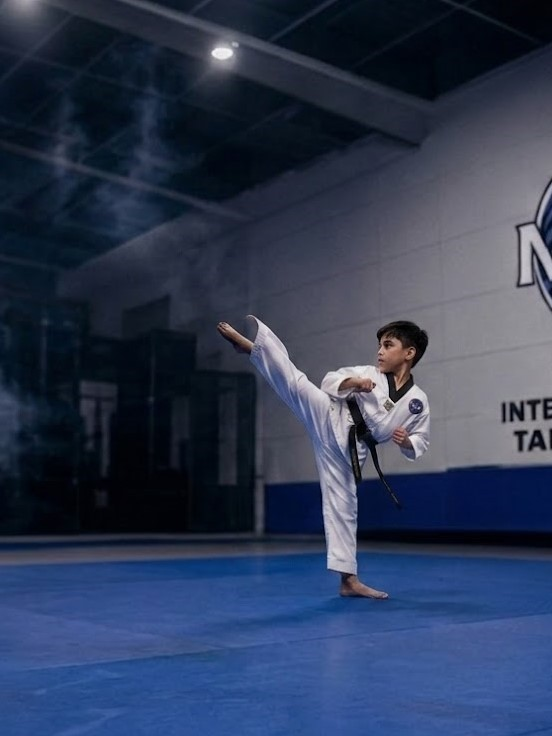
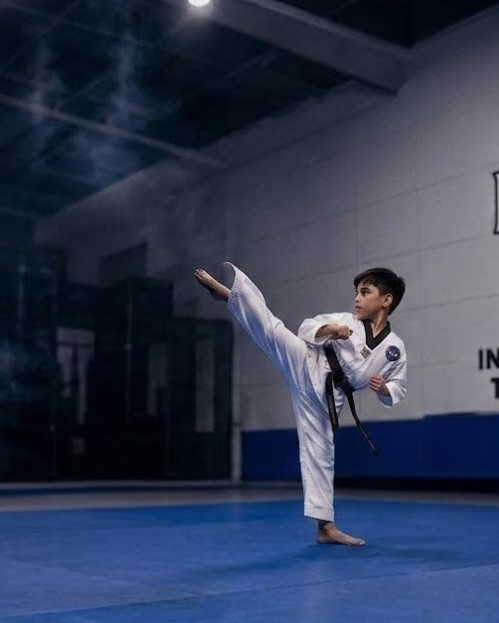
ajuste portada

diff --git a/style.css b/style.css
@@ -892,10 +892,10 @@ img{ max-width: 100%; display:block; }
 
   /* el header ya no puede sostener el logo grande + botón en una fila angosta */
   .header-inner{ gap: 10px; }
-  .logo{ width: 66px; }
+  .logo{ width: 120px; }
   .logo-img{
-    width: 66px;
-    height: 66px;
+    width: 120px;
+    height: 120px;
     top: 6px;
   }
   .header-actions{ gap: 8px; }
@@ -905,7 +905,7 @@ img{ max-width: 100%; display:block; }
   .hero h1{ font-size: 1.9rem; }
   .stars-divider{ margin: 16px 0; }
   .hero-sub{ font-size: .9rem; margin-bottom: 26px; }
-  .hero-buttons .btn{ padding: 11px 20px; font-size: .75rem; }
+  .hero-buttons .btn{ padding: 8px 15px; font-size: .75rem; width: 50%; margin-top: 10px; }
 }
 
 /* Móvil chico (iPhone SE y similares) */
